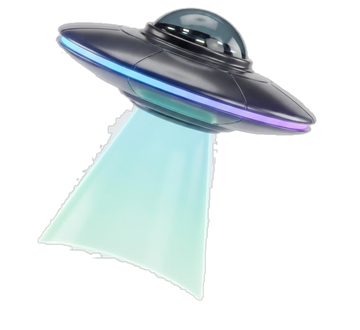
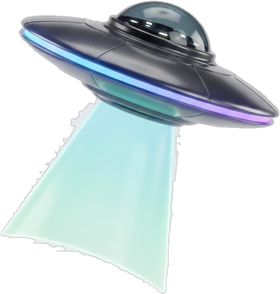
Activity empty state: match Trust's measured position and spacing
Measured both screenshots: text/icon sizes were already equal, the
block sat 66px (59dp) too high and the UFO->title gap was 17dp too
loose. Trimmed transparent padding off the UFO art, set its box to
65x68dp, top margin 59dp, gap 41dp, sub margin 8dp.

Changed region(s): [[0.0, 0.0, 1.0, 1.0]]

diff --git a/src/screens/ActivityScreen.tsx b/src/screens/ActivityScreen.tsx
@@ -185,11 +185,12 @@ const styles = StyleSheet.create({
 
   body: { alignItems: 'center', paddingHorizontal: SP.xxl, paddingTop: SP.lg, paddingBottom: SP.xl },
 
-  // Trust empty state: 87x76px at 461px capture = ~78dp wide illustration,
-  // ~40dp gap to the headline (24 Bold), description 16 Medium grey.
-  art: { width: 78, height: 72, marginBottom: 40 },
+  // Trust empty state (measured on a 461px capture): illustration top at
+  // y=194 (59dp below header), 68dp tall, 41dp gap to the headline (24 Bold),
+  // 8dp+leading to the description (16 Medium grey).
+  art: { width: 65, height: 68, marginTop: 59, marginBottom: 41 },
   headline: T.title2,
-  sub: { ...T.subtitle, marginTop: SP.xs, textAlign: 'center' },
+  sub: { ...T.subtitle, marginTop: 8, textAlign: 'center' },
 
   // Grey pill: 322x66px at 461px capture = ~288x59dp, radius 16.
   olderPill: {
